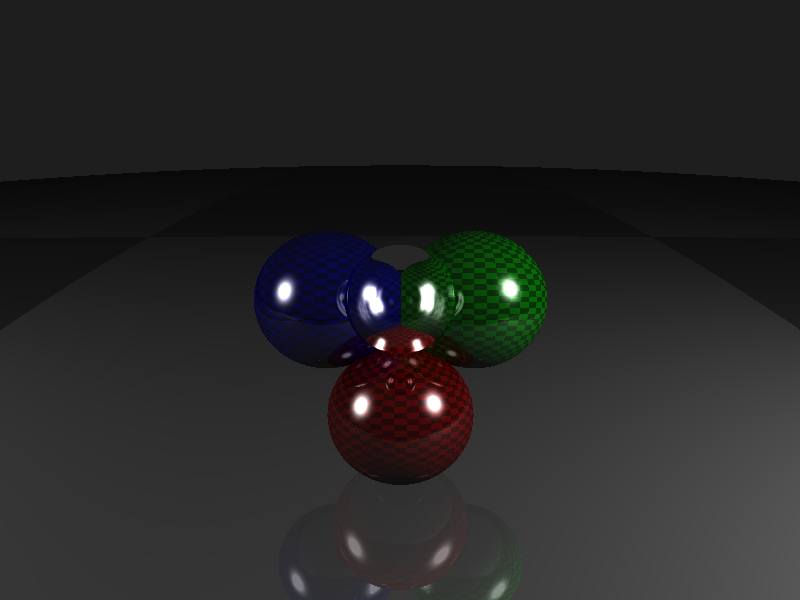
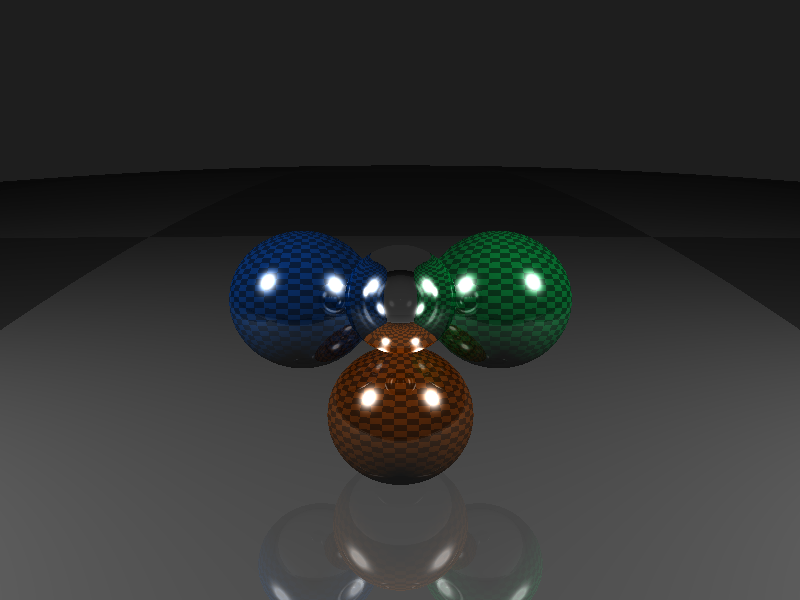
Some tinkering today. Shadows still does not work.

Changed region(s): [[0.0, 0.6, 0.6875, 1.0], [0.2812, 0.36, 0.7188, 0.75]]

diff --git a/src/Raytracer.cpp b/src/Raytracer.cpp
@@ -76,7 +76,7 @@ core::Color Raytracer::trace(core::Ray& ray, int reccursionStep)
 
     if (reccursionStep > maxReccursionLimit) return local;
 
-    double distance = 10000.0f;
+    double distance = 1000000.0f;
 
     auto objects = scene_.getObjects();
 
@@ -106,7 +106,7 @@ core::Color Raytracer::trace(core::Ray& ray, int reccursionStep)
 
         // PHONG lighting model
         double a = 1.0;
-        double b = 0.1;
+        double b = 0.01;
         double c = 0.001;
 
         core::Vector V = ray.getDirection();    // observation vector
@@ -125,7 +125,7 @@ core::Color Raytracer::trace(core::Ray& ray, int reccursionStep)
         {
             if(object->isCastingShadow && object->hit(lightRay, t2))
             {
-                //isInShadow = true;
+                isInShadow = true;
                 break;
             }
         };
@@ -151,7 +151,7 @@ core::Color Raytracer::trace(core::Ray& ray, int reccursionStep)
         if (isInShadow)
         {
             local = local + clamp(closestObjectMaterial.ambient * lightning_factor);
-            local = core::Color{255.0,0.0,255.0};
+            //local = core::Color{255.0,0.0,255.0};
         }
         else
         {

diff --git a/src/shape/Sphere.cpp b/src/shape/Sphere.cpp
@@ -33,24 +33,23 @@ bool Sphere::hit(core::Ray r, double& t)
     double c = (dist.dotProduct(dist)) - (getRadius() * getRadius());
     double d = b*b - c;
     if (d <= 0.0) return false;
-    d = sqrtf(d);
+
+    d = sqrt(d);
 
     double t1 = - b - d;
-    
+    double t2 = - b + d;
+
     if ((t1 > 0.005f) && (t1 < t))
     {
         t = t1;
         return true;
     }
 
-    double t2 = - b + d;
-
     if ((t2 > 0.005f) && (t2 < t))
     {
         t = t2;
         return true;
     }
-
     return false;
 }
 
